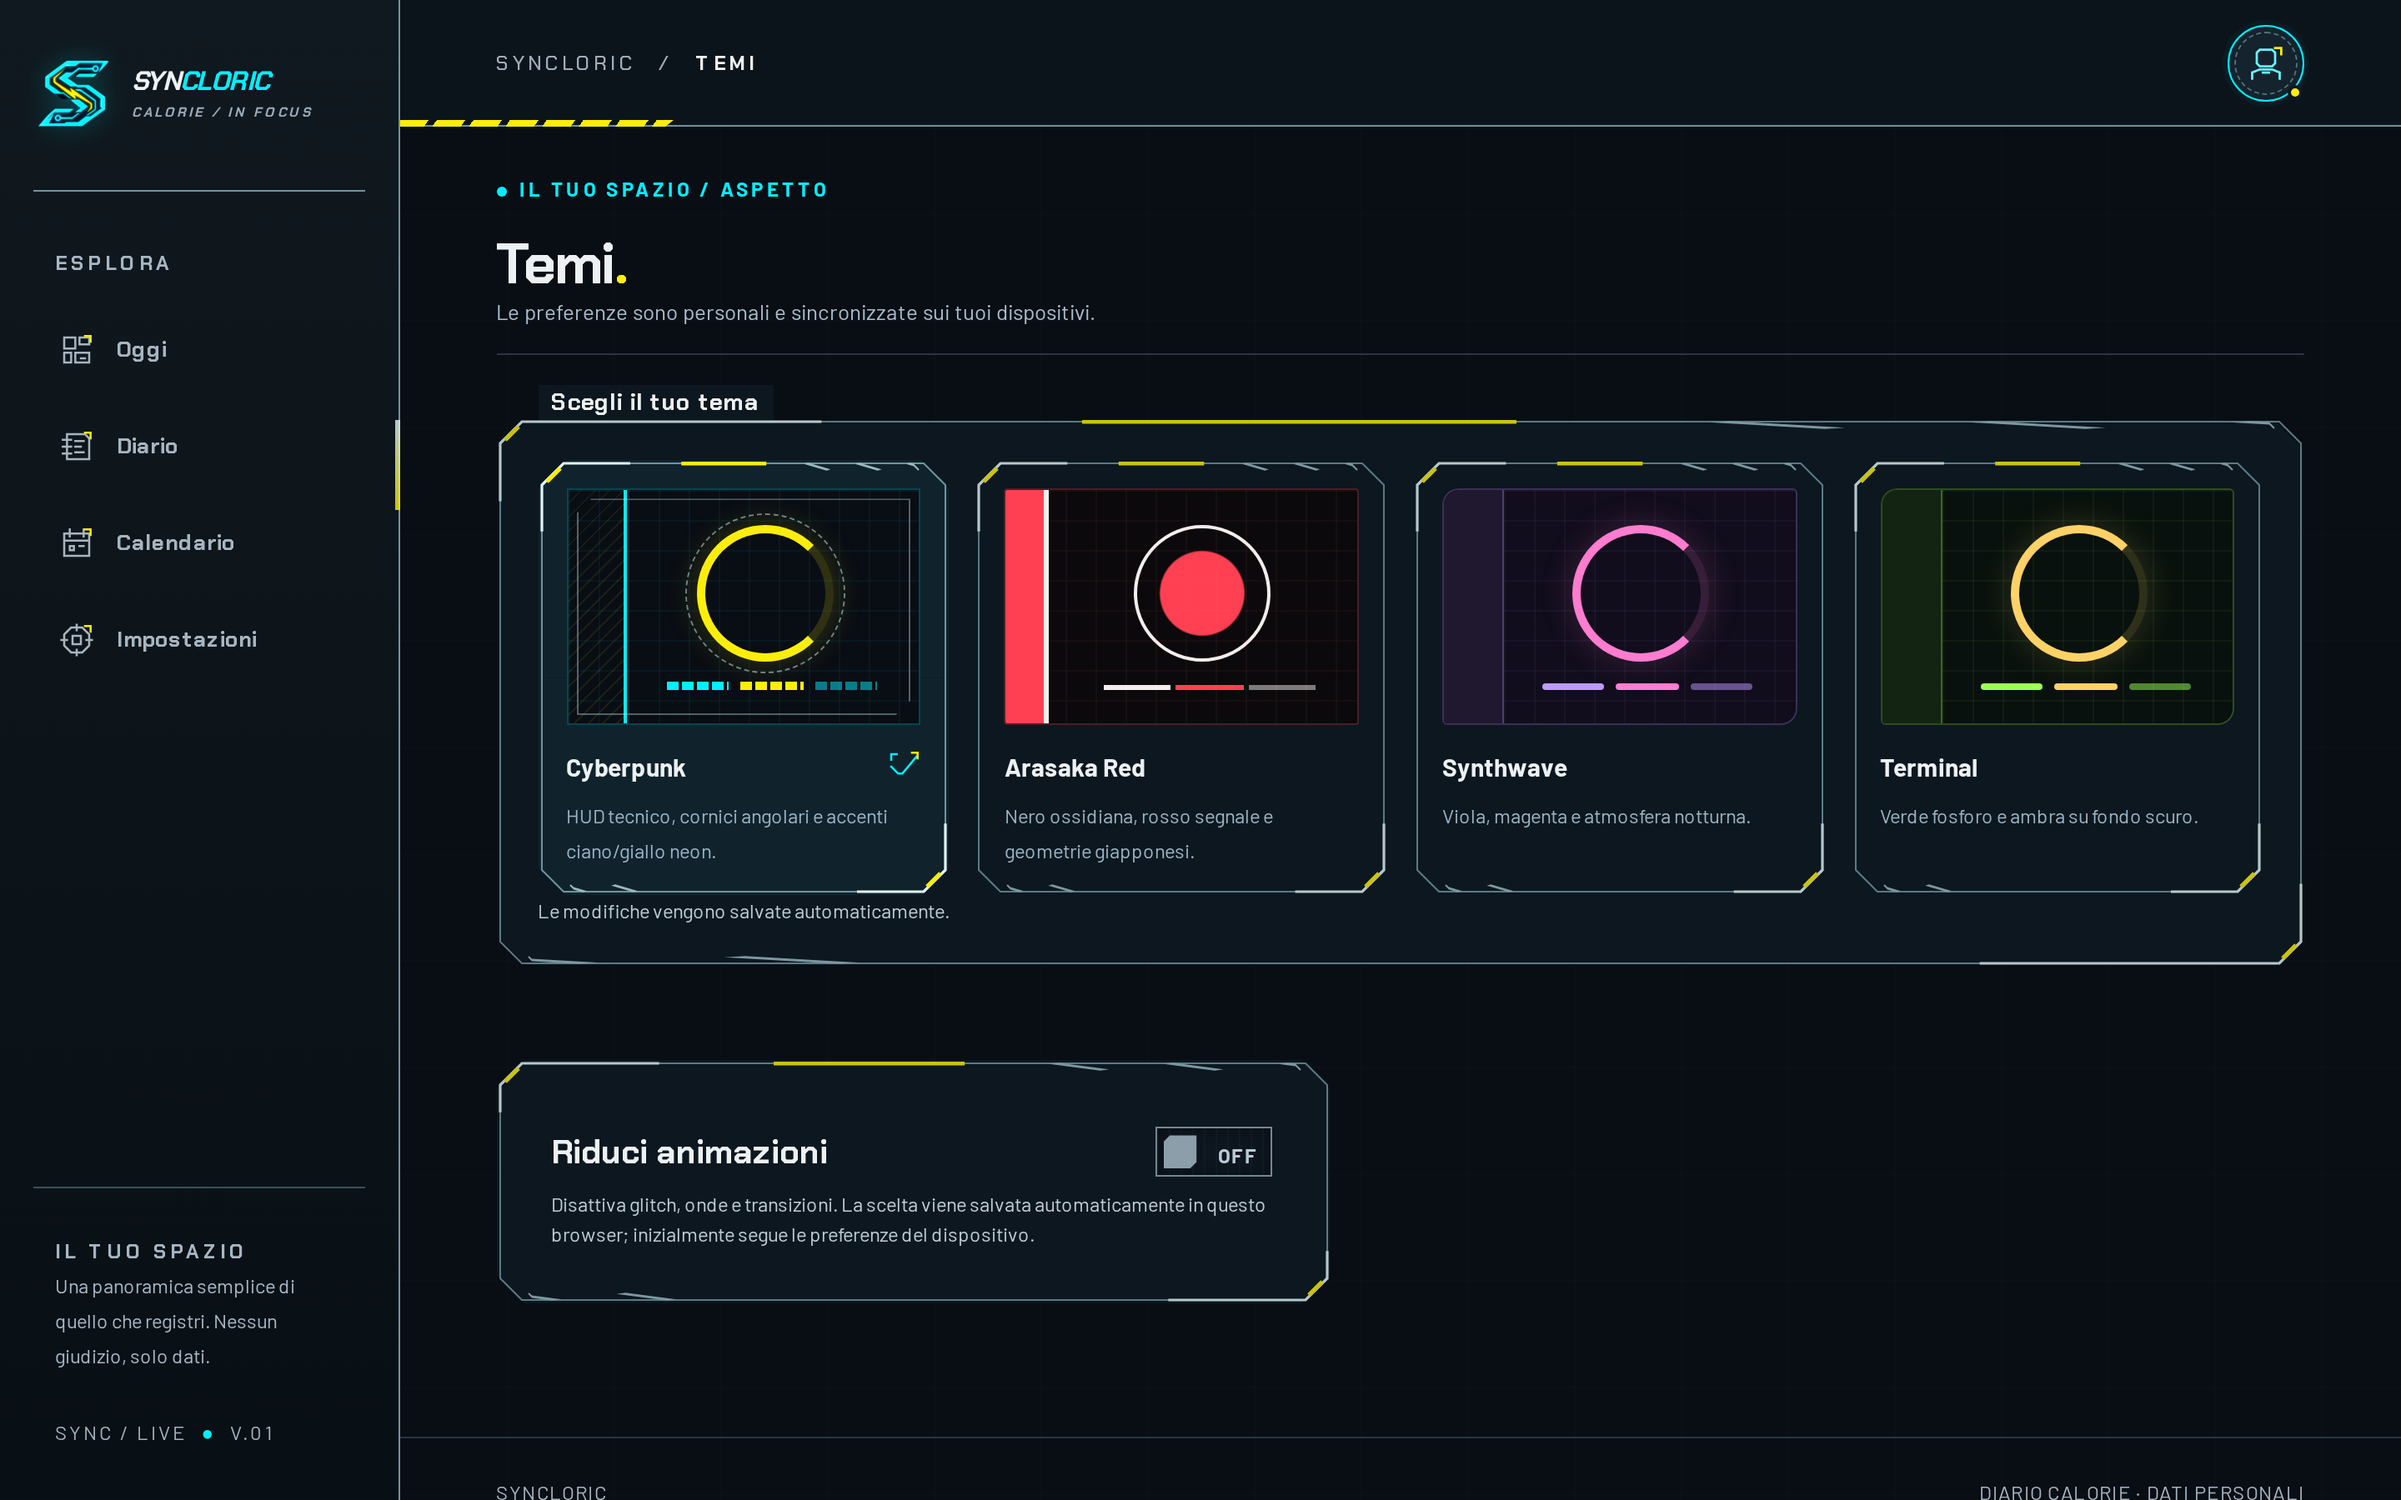
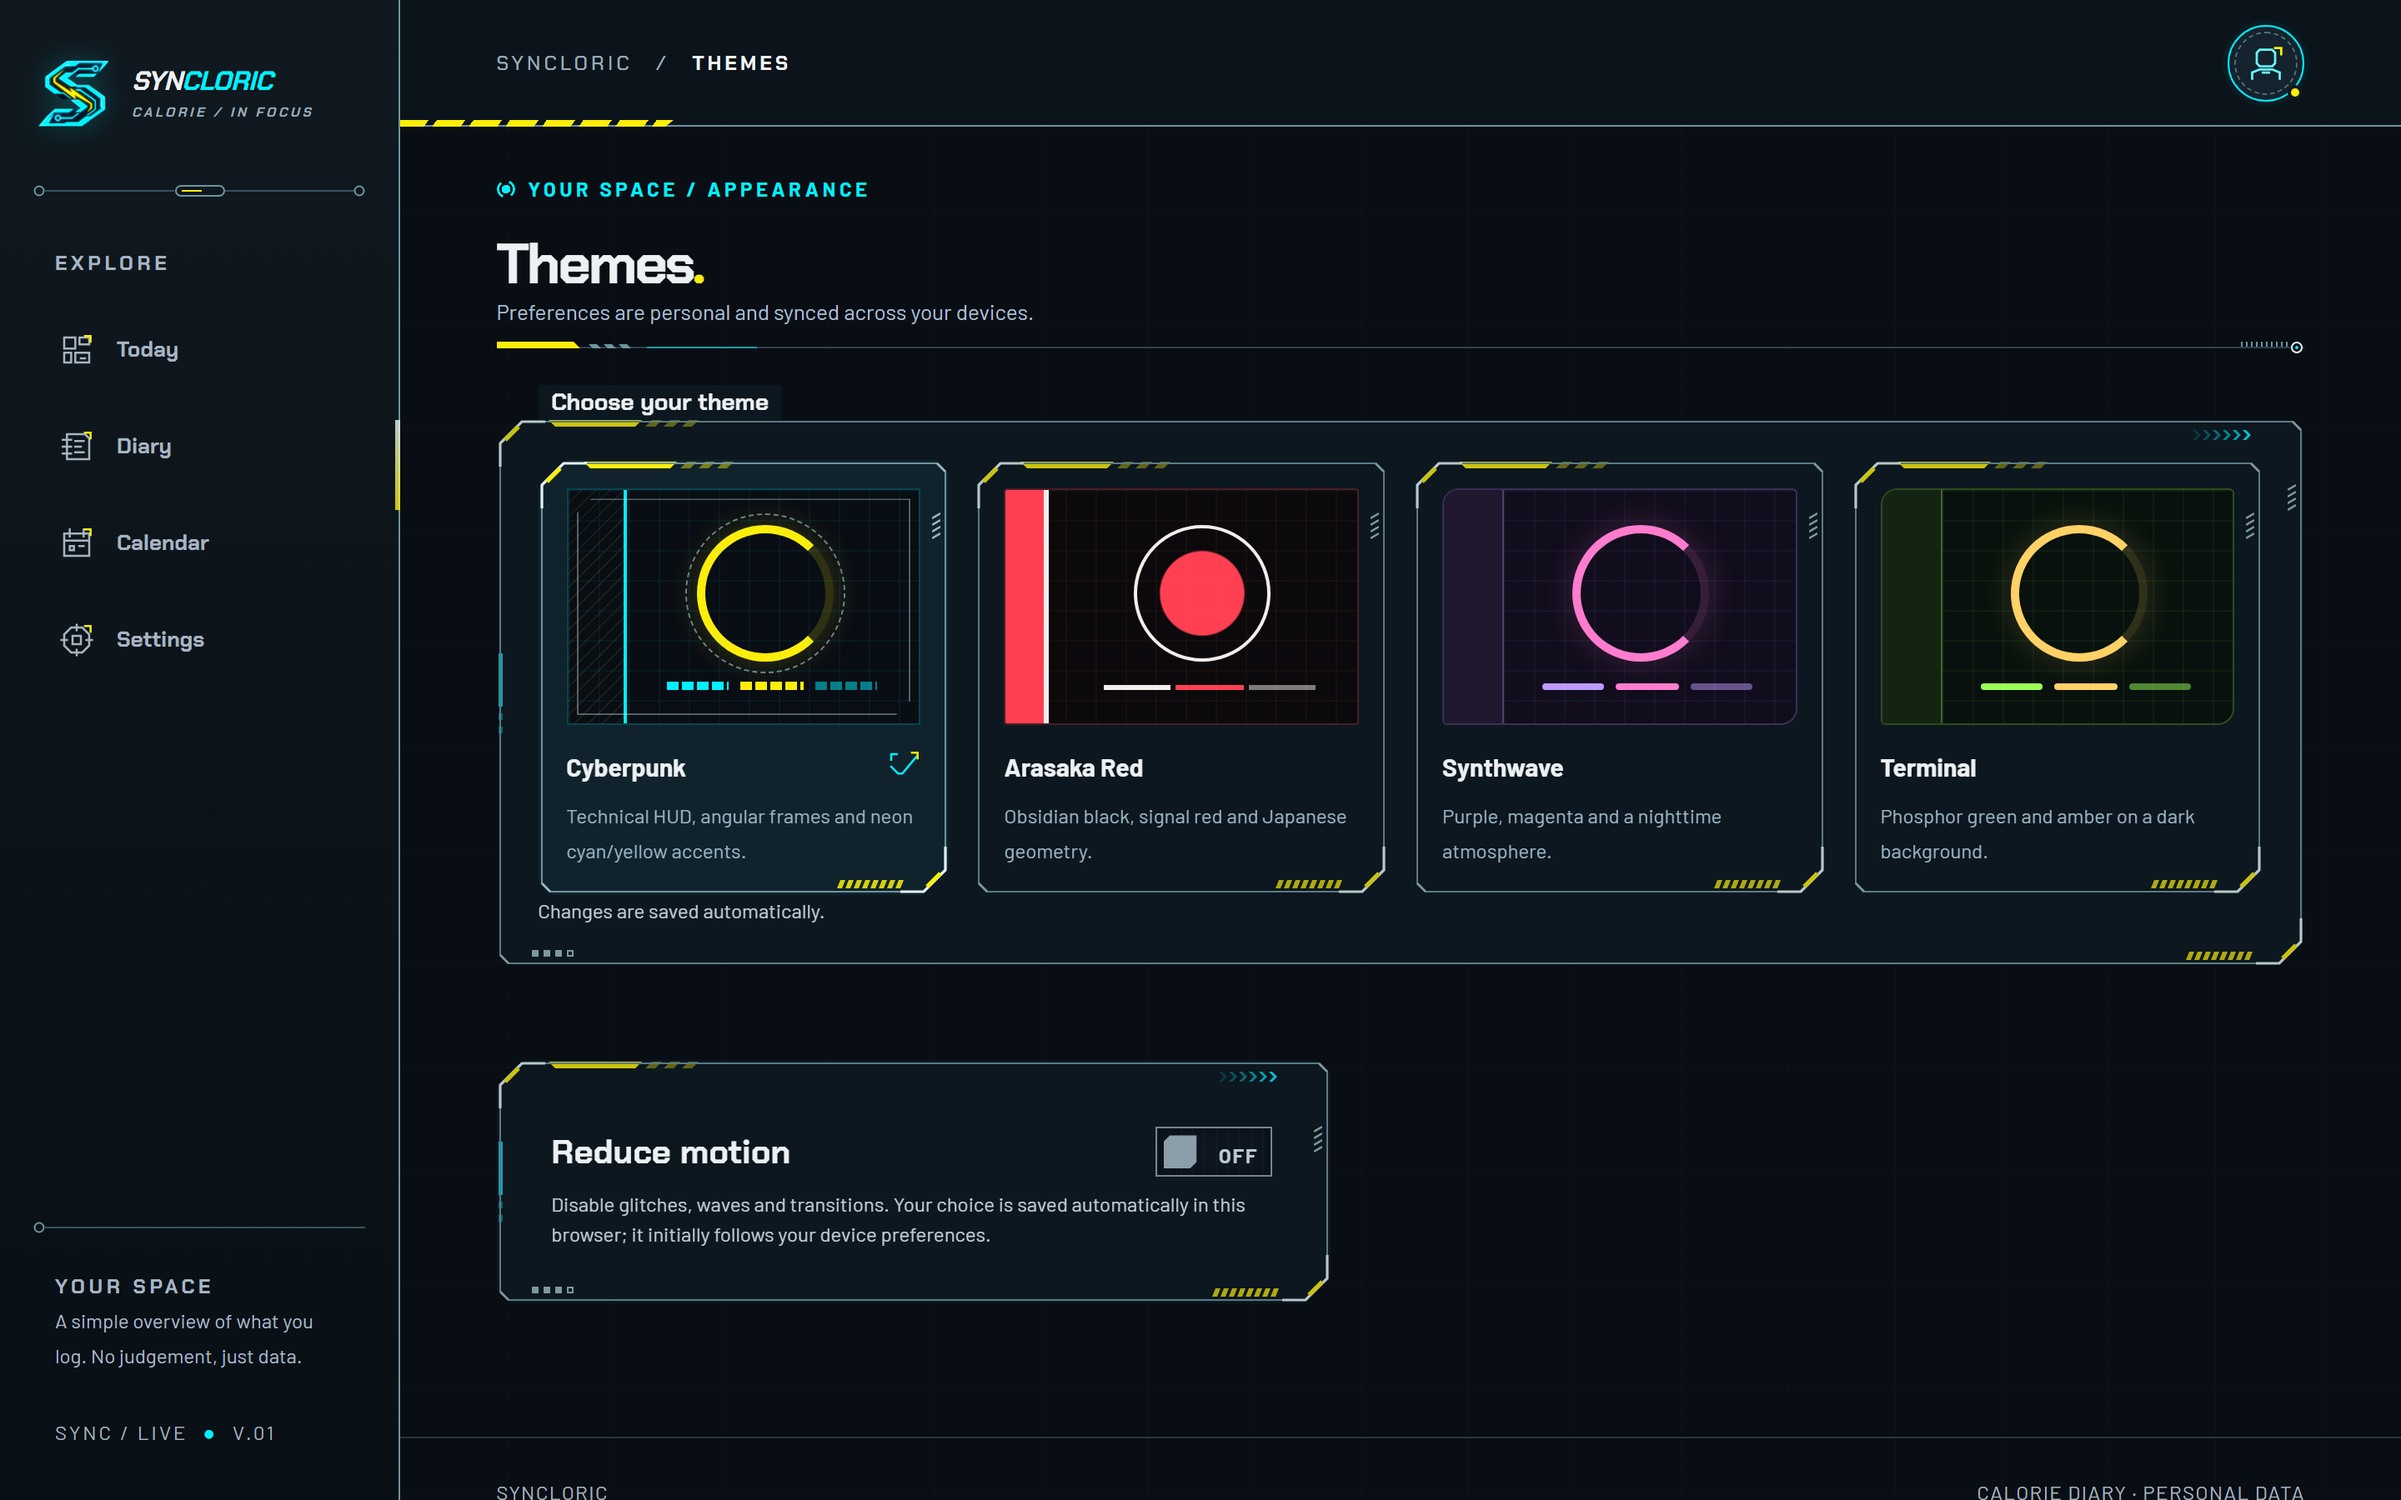
docs(readme): screenshot con il nuovo HUD Cyberpunk, in inglese e in italiano
Cinque screenshot rifatti da un'istanza locale con dati demo (13/11/2026):
dashboard, diario, dettaglio pasto, temi e vista mobile. Le versioni in
inglese sostituiscono quelle esistenti e servono README.md e README.es.md;
le versioni in italiano (*.it.png) sono usate da README.it.md.

diff --git a/README.it.md b/README.it.md
@@ -36,13 +36,13 @@ solo dati tuoi dal tuo database.
 > Istantanee di un'istanza locale con **dati fittizi** (nessun dato reale di persone).
 
 <div align="center">
-  <img src=".github/assets/screenshot-dashboard.png" alt="Dashboard: bilancio energetico, macro e riepilogo dei quattro pasti" width="49%">
-  <img src=".github/assets/screenshot-diary.png" alt="Diario del giorno con kcal e macro per pasto" width="49%">
+  <img src=".github/assets/screenshot-dashboard.it.png" alt="Dashboard: bilancio energetico, macro e riepilogo dei quattro pasti" width="49%">
+  <img src=".github/assets/screenshot-diary.it.png" alt="Diario del giorno con kcal e macro per pasto" width="49%">
   <br>
-  <img src=".github/assets/screenshot-meal.png" alt="Dettaglio del pasto con elenco alimenti, grammi e kcal" width="49%">
-  <img src=".github/assets/screenshot-themes.png" alt="Quattro temi: Cyberpunk, Arasaka Red, Synthwave, Terminal" width="49%">
+  <img src=".github/assets/screenshot-meal.it.png" alt="Dettaglio del pasto con elenco alimenti, grammi e kcal" width="49%">
+  <img src=".github/assets/screenshot-themes.it.png" alt="Quattro temi: Cyberpunk, Arasaka Red, Synthwave, Terminal" width="49%">
   <br>
-  <img src=".github/assets/screenshot-mobile.png" alt="Vista mobile del diario" width="26%">
+  <img src=".github/assets/screenshot-mobile.it.png" alt="Vista mobile del diario" width="26%">
 </div>
 
 ## Funzionalità
